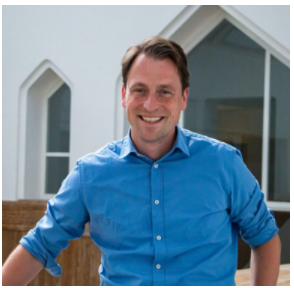
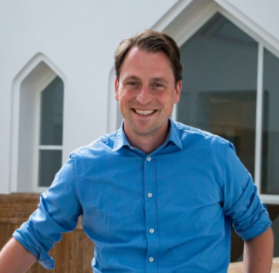
about section update

Changed region(s): [[0.0, 0.0, 1.0, 1.0], [0.5161, 0.674, 0.5448, 0.7326], [0.4301, 0.4396, 0.4588, 0.4982]]

diff --git a/components/home/about-section.tsx b/components/home/about-section.tsx
@@ -1,21 +1,48 @@
+import PortraitPhoto from '@/public/Nicolas.png'
+import Signature from '@/public/krabbel_transparant.png'
+
+import Image from 'next/image';
+
 export default function AboutSection() {
     return (
-    <div id="mijn_verhaal" className="bg-[var(--color-30)] min-h-screen flex flex-col items-center justify-center px-50 pt-35 pb-20">
-      <div className="bg-[var(--color-10)] w-full grow min-h-[50vh]">
-        <div className=" pl-70 py-20 pr-10 text-[var(--color-90)] text-sm">
-          <p className=" md:text-sm mb-3">
+    <div id="mijn_verhaal" className="bg-[var(--color-30)] min-h-screen flex flex-col items-center justify-center px-4 md:px-12 lg:px-20 py-12 md:py-20">
+      <div className="bg-[var(--color-10)] w-full grow min-h-[50vh] flex flex-col md:flex-row">
+        
+        {/* Portrait Photo - stacks on top for mobile, left side for tablet+ */}
+        <div className="flex-shrink-0 flex justify-center md:justify-start p-4 md:p-6 lg:p-8">
+          <Image 
+            src={PortraitPhoto} 
+            alt="Nicolas" 
+            width={200} 
+            height={200} 
+            className="w-32 h-32 md:w-40 md:h-40 lg:w-48 lg:h-48 object-cover rounded-lg"
+          />
+        </div>
+
+        {/* Text Content */}
+        <div className="flex-1 p-4 md:p-6 lg:p-8 text-[var(--color-90)] text-sm md:text-base">
+          <p className="mb-3">
             Als jongste van vijf jongens vroeg ik me af hoe ik iets kon krijgen als ik de zwakste was. Als student wilde ik iets doen dat leuk was. Als partner zocht ik balans tussen mijn wensen en die van de ander. Als vader wilde ik opvoeden dat leuk, gezond en veilig was. Als consultant wilde ik mensen en bedrijven helpen groeien.
           </p>
-          <p className=" md:text-sm mb-3">
-            Vaak voelde ik me te zwak. Studeren en werken waren saai. Ik kreeg ruzie omdat ik gelijk wilde hebben. Ik werd de boeman, de verkoper van standaardoplossingen. Steeds weer stroomde mijn energie weg. Het leek alsof de donkere gedachte won: “Zo doen we dat hier, gedraag je zoals het hoort.”
+          <p className="mb-3">
+            Vaak voelde ik me te zwak. Studeren en werken waren saai. Ik kreeg ruzie omdat ik gelijk wilde hebben. Ik werd de boeman, de verkoper van standaardoplossingen. Steeds weer stroomde mijn energie weg. Het leek alsof de donkere gedachte won: "Zo doen we dat hier, gedraag je zoals het hoort."
           </p>
-          <p className=" md:text-sm mb-3">
+          <p className="mb-3">
             Toch was er steeds één sleutel: nieuwsgierigheid. Nieuwsgierigheid om te begrijpen hoe het anders kan, om te onderzoeken wat mogelijk is, om te ervaren wat wel en niet werkt. Ik probeerde oplossingen te vinden. De eerste keer probeerde ik de corporate ladder te beklimmen om macht te krijgen en het anders vorm te geven. Maar hoe hoger ik kwam, hoe meer ik vastzat in het keurslijf van de top: macht, politiek spel en 24/7 werken. De tweede keer wilde ik werken leuk maken en als consultant van buiten naar binnen verandering brengen. Mensen willen wel veranderen, maar niet veranderd worden. Ik leek succesvol, maar de veranderingen bleven klein en klanten hadden mij steeds opnieuw nodig. Het voelde alsof ik in cirkels liep. De derde keer gaf nieuwsgierigheid energie. Ik ontdekte dat ik de oplossingen niet hoef aan te dragen. Iedereen kan die het beste zelf vinden door te ervaren en te begrijpen. Als ik de juiste middelen geef, komen mensen er ineens wél. Ik kon rustig in een hoek zitten en genieten van hoe mensen zelf hun oplossingen vol energie en overtuiging vonden.
           </p>
-          <p className=" md:text-sm mb-3">
+          <p className="mb-3">
             Wat nu echt anders kan, is dat we alles uit onszelf benutten. Niet alleen denken, maar ook ervaren. Niet automatisch in de routine schieten, maar stilstaan en onderzoeken.
           </p>
-          <p className=" md:text-sm">
+          
+          {/* Signature floated left so text wraps around it */}
+          <Image 
+            src={Signature} 
+            alt="Signature" 
+            width={100} 
+            height={100} 
+            className="float-right mr-8 mb-2 w-20 md:w-24 lg:w-28"
+          />
+          <p>
             Mijn anders is Knowei: een plek waar nieuwsgierigheid de ruimte krijgt. Waar je bouwt aan jouw oplossing door te begrijpen (KNOW) én door te ervaren (WEI). Ben benieuwd wat jou Knowei is.
           </p>
         </div>
